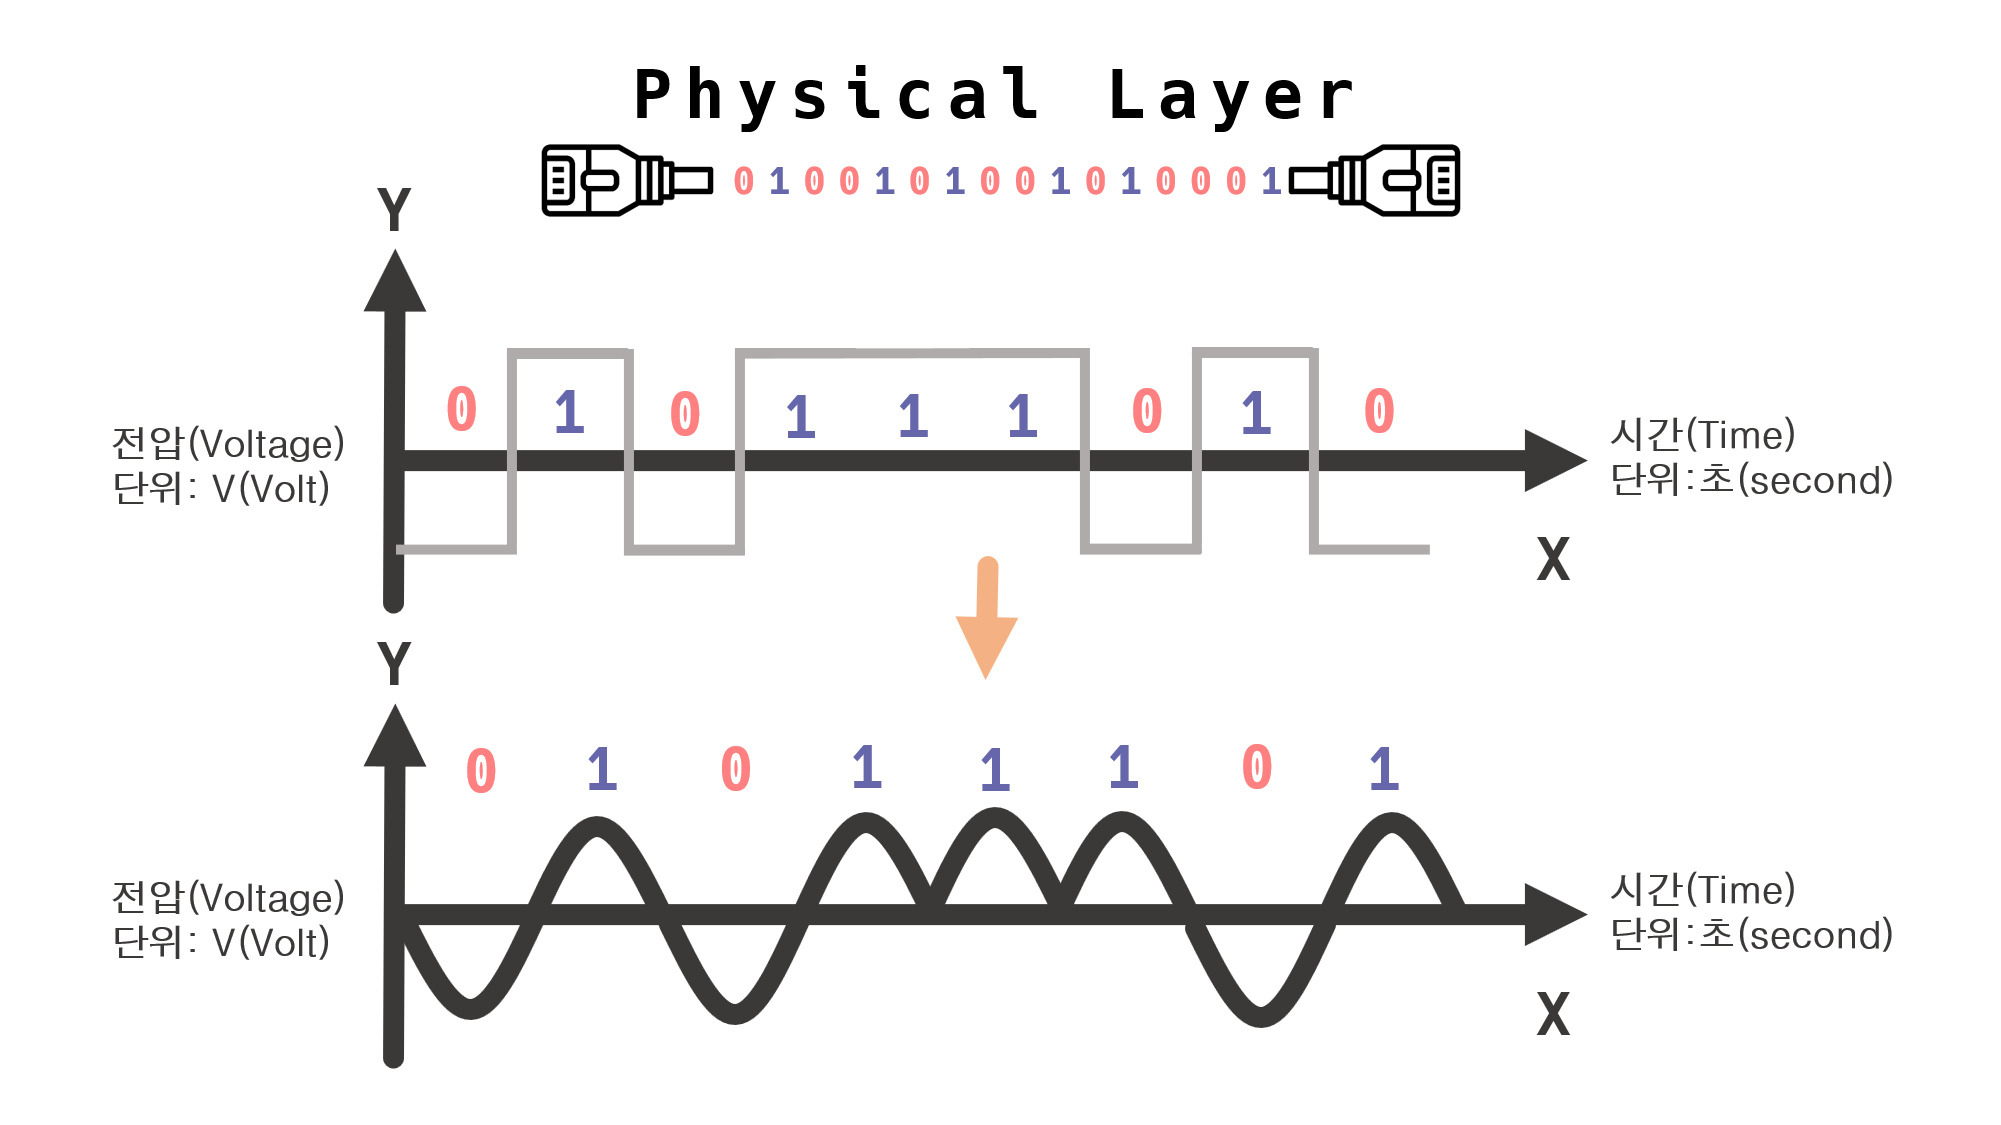
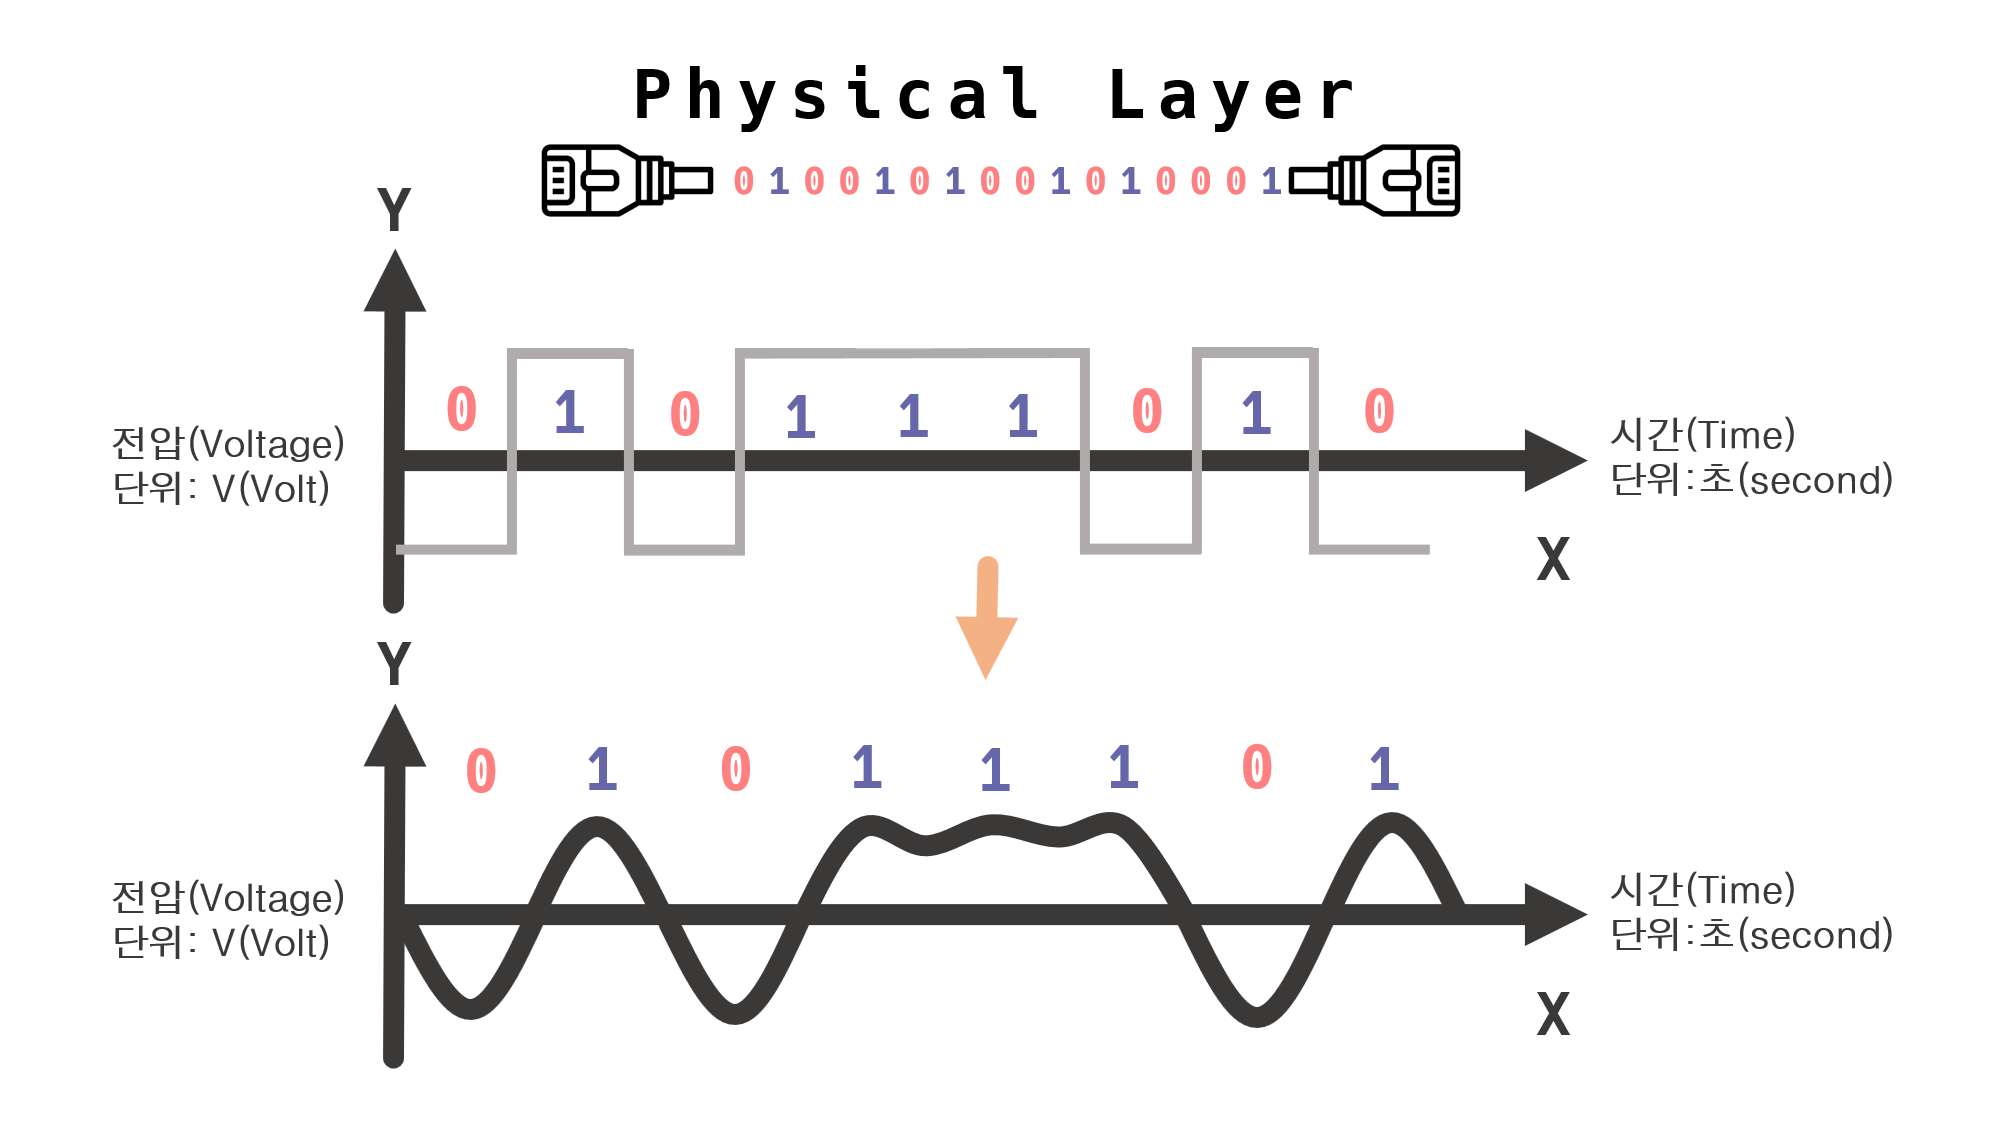
add osi 7 layer physical layer

Changed region(s): [[0.4028, 0.7156, 0.5887, 0.8089], [0.5887, 0.8089, 0.6507, 0.9022]]

diff --git a/_posts/development/client/2023-03-02-osi-7-physical-layer.md b/_posts/development/client/2023-03-02-osi-7-physical-layer.md
@@ -16,11 +16,11 @@ image:
 {:toc}
 
 # Physical Layer
-![Physical Layer](/assets/img/development/client/2023-03-02/physical_layer_main.png){:.centered width="100%"}
+![Physical Layer](/assets/img/development/client/2023-03-02/physical_layer_main.png){:.centered width="80%"}
 
 ## 두 대의 컴퓨터가 통신하려면?
 ### 모든 파일과 프로그램은 0과 1의 나열
-![Two Computer Communications](/assets/img/development/client/2023-03-02/2_computer_communications.png){:.centered width="100%"}
+![Two Computer Communications](/assets/img/development/client/2023-03-02/2_computer_communications.png){:.centered width="80%"}
 > “**두 대의 컴퓨터를 전선 하나로 연결한다고 가정**”
 
 - 모든 파일과 프로그램은 0과 1의 나열이다.
@@ -29,7 +29,7 @@ image:
 - 하지만, 위 방법은 문제가 있는데, 실제론 잘 작동하지 않는다.
 
 ### 실제론 잘 작동하지 않는 문제 발생
-![Sin Graph](/assets/img/development/client/2023-03-02/sin_graph.png){:.centered width="100%"}
+![Sin Graph](/assets/img/development/client/2023-03-02/sin_graph.png){:.centered width="80%"}
 > “**전자기파를 표현하는 Sin 함수 그래프**”
 
 - **주파수란?** 1초당 진동한 진동 횟수. 단위 : Hz(헤르츠)
@@ -37,7 +37,7 @@ image:
 - 위 그래프는 파동이 진행되는 내내 주파수가 `4Hz(헤르츠)`이다.
 
 ### 만약, 일정하지 않은 주파수이면?
-![Irregular Sin Graph](/assets/img/development/client/2023-03-02/irregular_sin_graph.png){:.centered width="100%"}
+![Irregular Sin Graph](/assets/img/development/client/2023-03-02/irregular_sin_graph.png){:.centered width="80%"}
 > “**이런 전자기파는 주파수 값이 숫자 하나로 고정되지 않고, 파동이 진행되는 동안 주파수 값이 계속 변하게 된다.**”
 
 - 하지만, 위 그림처럼 <span style="color:#ff8080">**일정하지 않은 주파수**</span>이면 어떻게 되는 것일까?
@@ -46,7 +46,7 @@ image:
 - 즉, 전선은 모든 전류, 그리고 모든 주파수를 다 통과시키지 못 하고 허용 범위가 생긴다.
 
 ### 모든 전선에는 저항이 있어 전선에 맞는 허용 범위의 전류와 전압이 존재
-  ![Electric Wire](/assets/img/development/client/2023-03-02/electric_wire.png){:.centered width="100%"}
+  ![Electric Wire](/assets/img/development/client/2023-03-02/electric_wire.png){:.centered width="80%"}
 > “**KS C IEC - IEC(국제 전기 표준화 기구)를 KS(한국 산업 표준)에 맞게 표준화**”<br>
 > “**2CX 2.5SQ MM - 2core(2가닥의 전선)와 각 전선의 굵기는 2.5SQ (MM) 2.5mm**”<br>
 > “**300/500V - 허용 범위의 전압(Volt), 국내 가정용 220V 표준**”<br>
@@ -56,7 +56,7 @@ image:
 - 이유는 [우리나라 주파수는 왜 60Hz일까?](http://www.keaj.kr/news/articleView.html?idxno=3608){:target="_blank"} 자료를 참고해 주시길 바란다.
 
 ### 잘못된 데이터 수신
-![Problem](/assets/img/development/client/2023-03-02/problem_1.png){:.centered width="100%"}
+![Problem](/assets/img/development/client/2023-03-02/problem_1.png){:.centered width="80%"}
 > “**Hz의 허용 범위가 다른 전선의 사용한 경우 잘못된 데이터를 수신할 수 있게 되는 문제점 발생**”<br>
 
 - 보내는 쪽에서는 `1~10Hz`의 데이터 `안녕`을 보낸다.
@@ -65,7 +65,7 @@ image:
 - 그런데, 앞에서 두 대의 컴퓨터가 통신하려면 `0`과 `1`을 주고받을 수 있으면 된다고 했는데, 그 방법은 두 대의 컴퓨터에 다음과 같은 전자기파를 주고받을 수 있으면 된다.
 
 ### 수직/수평선이 있는 전자기파
-![Vertical Horizontal_Wave](/assets/img/development/client/2023-03-02/vertical_horizontal_wave.png){:.centered width="100%"}
+![Vertical Horizontal_Wave](/assets/img/development/client/2023-03-02/vertical_horizontal_wave.png){:.centered width="80%"}
 > “**그런데, 수직선과 수평선이 있는 전자기파는 항상 0~무한대Hz의 주파수 범위를 갖는다???**”<br><br>
 > “**수직선과 수평선이 있는 전자기파는 편파(polarized) 전자기파이며, 편파전자기파는 진폭이 한 방향으로 고정되어 있고, 이러한 편파 전자기파는 하나의 평면에서 전파가 진행된다.**”<br>
 > “**따라서, 수직선과 수평선이 있는 전자기파의 주파수 범위는 항상 0 ~ 무한대(Hz)를 갖는다. 왜냐하면 편파 전자기파는 진폭이 한 방향으로 고정되어 있으며, 주파수는 전파의 진동수를 나타내기 때문이다.**”<br><br>
@@ -75,7 +75,7 @@ image:
 - 그렇다면 `0`과 `1`의 신호를 어떻게 전송해야 할까?
 
 ### 디지털 신호를 아날로그 신호로
-![Digital to Analog](/assets/img/development/client/2023-03-02/digital_to_analog.png){:.centered width="100%"}
+![Digital to Analog](/assets/img/development/client/2023-03-02/digital_to_analog.png){:.centered width="80%"}
 > “**디지털 신호를 아날로그 신호로 바꿔서 전송해야 한다.**”<br>
 
 #### 아날로그 신호의 특징
@@ -88,7 +88,42 @@ image:
 - 즉, `1`을 `5V`라고 가정할 때 `1`로 표현하고 싶으면 `5V` 이상의 전압을 가하고, `0`으로 표현하고 싶을 땐 `5V` 이하의 전압을 가하게 된다.
 - 디지털 신호 그래프의 `0`은 끊어진 것처럼 보이지만 사실 끊어진 게 아니라 특정 전압 이하이기 때문에 `0`으로 그래프상 표시한 것 뿐이다. 실제론 계속 전류는 흐른다.
 
-![Data Collection Graph](/assets/img/development/client/2023-03-02/data_collection_graph.png){:.centered width="100%"}
+![Data Collection Graph](/assets/img/development/client/2023-03-02/data_collection_graph.png){:.centered width="80%"}
+- 위 그래프는 `1초` 동안 발생한 아날로그 신호이다.
+- `200ms` 마다 데이터를 수집한다고 가정해보자. 참고로 `200ms`는 `1/5(0.2sec)`초 이다. 
+- 즉, `1초`에 `5번` 아날로그 신호의 데이터를 분석해서 `digital`신호로 바꾸는 작업이다.
+- `200ms`는 기존에 아날로그 신호와 외곡 차이가 심하게 난다.
+- `100ms`는 `200ms`보다 조금 더 아날로그 신호에 가깝다. 
+- `50ms(1초에 20번)` 데이터를 수집하게 되면 `200ms`보다 `4배` 정도 정밀도가 높아진다.
+- 즉, 조금 더 촘촘히 많은 데이터를 수집할 수 록 `아날로그` 데이터에 굉장히 가까워 진다.
+- 아무리 `아날로그 신호`를 `디지털 신호`로 바꾸어도 어쩔 수 없이 데이터 외곡은 생기기 마련이다.
+
+#### 가정에서 많이 사용하는 CAT5.E Cable
+![CAT.5E Cable](/assets/img/development/client/2023-03-02/cat5e_cable.png){:.centered width="80%"}
+
+#### CAT.5E vs CAT.6 차이
+![CAT.5E vs CAT.6 Cable](/assets/img/development/client/2023-03-02/cat5e_vs_cat6.png){:.centered width="80%"}
+- 1초에 `100MHz`의 데이터 전송이 가능한 케이블이다.
+- 위에서 예시로 든 `50ms(1초에 20번)`와 1초에 `100MHz(1초에 1,000,000번 - 100만 번)`의 데이터 수집량에 엄청난 차이를 느낄 수 있다.
+    - 참고로, **“현재 통신사에서1기가 인터넷을 최대 속도로 서비스하고 있는 상황에서 케이블의 종류에 따른 속도의 차이는 없다”**
+    - 다만, 차후 `2.5G`나 `5G`의 속도가 상용화 되면 지금의 `1Gbps`보다 빠른 속도를 제공받을 수 있다는 이야기.
+
+## PHY 칩
+![Phy 칩](/assets/img/development/client/2023-03-02/phy_chip.png){:.centered width="80%"}
+- `Physical Layer`는 하드웨어적으로 구현되어 있다.
+- `PHY 칩은`이 `아날로그 신호`를 `디지털 신호(decoding)`로,
+- `디지털 신호`를 `아날로그 신호(encoding)`로 변환해주는 하드웨어이다.
+
+## 그래서 결국 Physical Layer란?
+- 물리적인 전선을 통해 `0`과 `1`의 나열된 신호를 통신하는 계층이다.
+- `0`과 `1`의 나열된 `디지털 신호`를 `아날로그 신호`로 바꾸어 전선에 흘려 보낸다. -> **`encoding`**
+- `아날로그 신호`가 들어오면 `0`과 `1`의 나열로 해석한다 -> **`decoding`**
+- 물리적으로 연결된 두 대의 컴퓨터가 `0`과 `1`의 나열을 주고받을 수 있게 해주는 모듈(**`module`**)
+
+## Reference
+- [[10분 테코톡] 🔮 히히의 OSI 7 Layer](https://www.youtube.com/watch?v=1pfTxp25MA8&t=35s){:target="_blank"}
+- [시골사는개발자 - 아날로그 데이터를 디지털 데이터로 변환하는 기본 원리](https://www.youtube.com/watch?v=bSbW6xqHxc0){:target="_blank"}
+- [인터넷119 - CAT.5E와 CAT.6 UTP케이블의 차이](https://m.blog.naver.com/internet_119/221592301990){:target="_blank"}
 
 [//]: # (Continue with [[Network] OSI 7 Layer - Data Link Layer]&#40;./2023-03-05-week-8th.md&#41;{:.heading.flip-title})
 

diff --git a/_posts/dailylog/routine/2023/04-april/2023-03-27-week-11th.md b/_posts/dailylog/routine/2023/04-april/2023-03-27-week-11th.md
@@ -29,3 +29,6 @@ image:
 
 Back to [[Routine] 10 주차 시작!](../03-march/2023-03-26-week-10th.md){:.heading.flip-title}
 {:.read-more}
+
+[//]: # (Continue with [[Routine] 12 주차 시작!]&#40;../04-april/2023-04-09-week-12th.md&#41;{:.heading.flip-title})
+[//]: # ({:.read-more})
